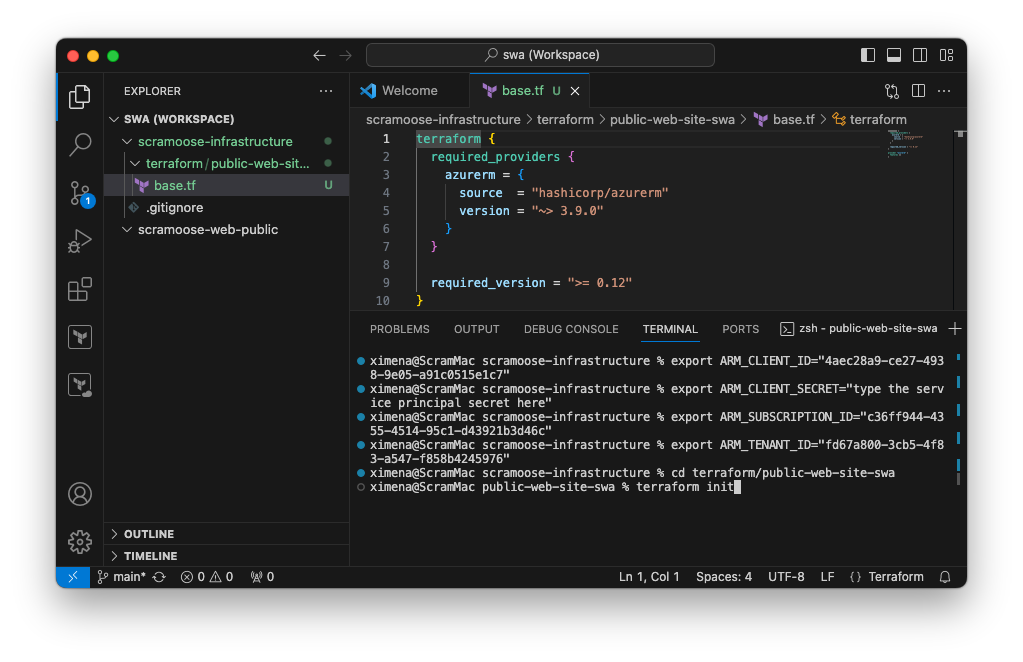
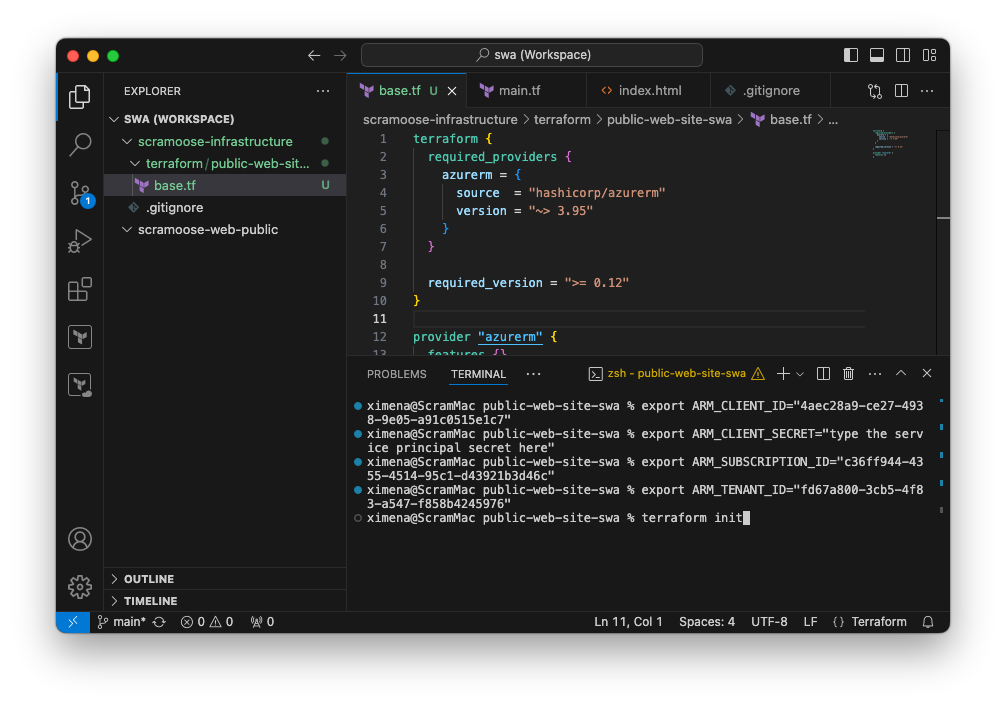
Fix azurerm version

diff --git a/_posts/learn/web/static-web-app/procedures/2024-02-28-swa-terraform.md b/_posts/learn/web/static-web-app/procedures/2024-02-28-swa-terraform.md
@@ -76,7 +76,7 @@ terraform {
   required_providers {
     azurerm = {
       source  = "hashicorp/azurerm"
-      version = "~> 3.9.0"
+      version = "~> 3.95"
     }
   }
 
@@ -102,7 +102,7 @@ Start a terminal in VS Code (**View > Terminal** or `` Ctrl+` ``) and `cd` into 
 terraform init
 ```
 
-{% include figure image_path="/assets/images/posts/vscode-swa-terraform-init.png" caption="Your VS Code instance should look like this so far." alt="VS Code terraform init command" %}
+{% include figure image_path="/assets/images/posts/vscode-swa-terraform-init.png" caption="Your VS Code instance should look like this so far. If you're wondering what all those `export` statements are, you probably skipped step 3 in the [Configure Authentication](#configure-authentication) section." alt="VS Code terraform init command" %}
 
 You'll see something similar to the following output.
 
@@ -110,9 +110,9 @@ You'll see something similar to the following output.
 Initializing the backend...
 
 Initializing provider plugins...
-- Finding hashicorp/azurerm versions matching "~> 3.9.0"...
-- Installing hashicorp/azurerm v3.9.0...
-- Installed hashicorp/azurerm v3.9.0 (signed by HashiCorp)
+- Finding hashicorp/azurerm versions matching "~> 3.95"...
+- Installing hashicorp/azurerm v3.106.1...
+- Installed hashicorp/azurerm v3.106.1 (signed by HashiCorp)
 
 Terraform has created a lock file .terraform.lock.hcl to record the provider
 selections it made above. Include this file in your version control repository
@@ -180,7 +180,7 @@ Terraform will perform the following actions:
   # azurerm_resource_group.public_site will be created
   + resource "azurerm_resource_group" "public_site" {
       + id       = (known after apply)
-      + location = "eastus2"
+      + location = "{{ site.data.web.static_web_app_basic.location }}"
       + name     = "{{ site.data.fake.company_code }}-{{ site.data.web.static_web_app_basic.workload }}-prd-1"
     }
 
@@ -206,7 +206,7 @@ Terraform will perform the following actions:
   # azurerm_resource_group.public_site will be created
   + resource "azurerm_resource_group" "public_site" {
       + id       = (known after apply)
-      + location = "eastus2"
+      + location = "{{ site.data.web.static_web_app_basic.location }}"
       + name     = "{{ site.data.fake.company_code }}-{{ site.data.web.static_web_app_basic.workload }}-prd-1"
     }
 
@@ -244,7 +244,7 @@ You should see your new resource group in the Azure portal within the next coupl
 Now we're going to add the definition for our Static Web App and run the Terraform commands all over again. Add this to your *main.tf* file:
 
 ``` terraform
-resource "azurerm_static_site" "public_site" {
+resource "azurerm_static_web_app" "public_site" {
   name = "{{ site.data.fake.company_code }}-{{ site.data.web.static_web_app_basic.workload }}-prd-1"
   resource_group_name = azurerm_resource_group.public_site.name
   location = azurerm_resource_group.public_site.location
@@ -264,7 +264,7 @@ resource "azurerm_resource_group" "public_site" {
   location = "East US 2"
 }
 
-resource "azurerm_static_site" "public_site" {
+resource "azurerm_static_web_app" "public_site" {
   name = "{{ site.data.fake.company_code }}-{{ site.data.web.static_web_app_basic.workload }}-prd-1"
   resource_group_name = azurerm_resource_group.public_site.name
   location = azurerm_resource_group.public_site.location
@@ -285,16 +285,18 @@ Terraform used the selected providers to generate the following execution plan. 
 
 Terraform will perform the following actions:
 
-  # azurerm_static_site.public_site will be created
-  + resource "azurerm_static_site" "public_site" {
-      + api_key             = (known after apply)
-      + default_host_name   = (known after apply)
-      + id                  = (known after apply)
-      + location            = "eastus2"
-      + name                = "{{ site.data.fake.company_code }}-{{ site.data.web.static_web_app_basic.workload }}-prd-1"
-      + resource_group_name = "{{ site.data.fake.company_code }}-{{ site.data.web.static_web_app_basic.workload }}-prd-1"
-      + sku_size            = "Free"
-      + sku_tier            = "Free"
+  # azurerm_static_web_app.public_site will be created
+  + resource "azurerm_static_web_app" "public_site" {
+      + api_key                            = (sensitive value)
+      + configuration_file_changes_enabled = true
+      + default_host_name                  = (known after apply)
+      + id                                 = (known after apply)
+      + location                           = "{{ site.data.web.static_web_app_basic.location }}"
+      + name                               = "{{ site.data.fake.company_code }}-{{ site.data.web.static_web_app_basic.workload }}-prd-1"
+      + preview_environments_enabled       = true
+      + resource_group_name                = "{{ site.data.fake.company_code }}-{{ site.data.web.static_web_app_basic.workload }}-prd-1"
+      + sku_size                           = "Free"
+      + sku_tier                           = "Free"
     }
 
 Plan: 1 to add, 0 to change, 0 to destroy.
@@ -314,16 +316,18 @@ Terraform used the selected providers to generate the following execution plan. 
 
 Terraform will perform the following actions:
 
-  # azurerm_static_site.public_site will be created
-  + resource "azurerm_static_site" "public_site" {
-      + api_key             = (known after apply)
-      + default_host_name   = (known after apply)
-      + id                  = (known after apply)
-      + location            = "eastus2"
-      + name                = "{{ site.data.fake.company_code }}-{{ site.data.web.static_web_app_basic.workload }}-prd-1"
-      + resource_group_name = "{{ site.data.fake.company_code }}-{{ site.data.web.static_web_app_basic.workload }}-prd-1"
-      + sku_size            = "Free"
-      + sku_tier            = "Free"
+  # azurerm_static_web_app.public_site will be created
+  + resource "azurerm_static_web_app" "public_site" {
+      + api_key                            = (sensitive value)
+      + configuration_file_changes_enabled = true
+      + default_host_name                  = (known after apply)
+      + id                                 = (known after apply)
+      + location                           = "{{ site.data.web.static_web_app_basic.location }}"
+      + name                               = "{{ site.data.fake.company_code }}-{{ site.data.web.static_web_app_basic.workload }}-prd-1"
+      + preview_environments_enabled       = true
+      + resource_group_name                = "{{ site.data.fake.company_code }}-{{ site.data.web.static_web_app_basic.workload }}-prd-1"
+      + sku_size                           = "Free"
+      + sku_tier                           = "Free"
     }
 
 Plan: 1 to add, 0 to change, 0 to destroy.
@@ -334,13 +338,13 @@ Do you want to perform these actions?
 
   Enter a value: yes
 
-azurerm_static_site.public_site: Creating...
-azurerm_static_site.public_site: Creation complete after 2s [id=/subscriptions/{{ site.data.fake.subscription_guid }}/resourceGroups/{{ site.data.fake.company_code }}-{{ site.data.web.static_web_app_basic.workload }}-prd-1/providers/Microsoft.Web/staticSites/{{ site.data.fake.company_code }}-{{ site.data.web.static_web_app_basic.workload }}-prd-1]
+azurerm_static_web_app.public_site: Creating...
+azurerm_static_web_app.public_site: Creation complete after 2s [id=/subscriptions/{{ site.data.fake.subscription_guid }}/resourceGroups/{{ site.data.fake.company_code }}-{{ site.data.web.static_web_app_basic.workload }}-prd-1/providers/Microsoft.Web/staticSites/{{ site.data.fake.company_code }}-{{ site.data.web.static_web_app_basic.workload }}-prd-1]
 
 Apply complete! Resources: 1 added, 0 changed, 0 destroyed.
 {% endhighlight  %}
 
-Draw your attention to the penultimate line: `azurerm_static_site.public_site: Creation complete after 2s`. Completed after two seconds! That's way less time than it would take to type and click this all in the portal. Arguably it took more time to create the Terraform code, but consider if you had to deploy this another ten times. Now that you have the Terraform code, you only have to change the resource group name and/or the Static Web App resource name.
+Draw your attention to the penultimate line: `azurerm_static_web_app.public_site: Creation complete after 2s`. Completed after two seconds! That's way less time than it would take to type and click this all in the portal. Arguably it took more time to create the Terraform code, but consider if you had to deploy this another ten times. Now that you have the Terraform code, you only have to change the resource group name and/or the Static Web App resource name.
 {: .notice--info}
 
 {% include figure image_path="/assets/images/posts/portal-resource-group-swa-resource.png" caption="Click on your resource group to see the new Static Web App resource you created." alt="Static Web App resource inside resource group" %}
@@ -380,13 +384,13 @@ Terraform can [output values](https://developer.hashicorp.com/terraform/language
 
 ``` terraform
 output "static_site_hostname" {
-  value = azurerm_static_site.public_site.default_host_name
+  value = azurerm_static_web_app.public_site.default_host_name
 }
 ```
 
 {% highlight output %}
 azurerm_resource_group.public_site: Refreshing state... [id=/subscriptions/{{ site.data.fake.subscription_guid }}/resourceGroups/{{ site.data.fake.company_code }}-{{ site.data.web.static_web_app_basic.workload }}-prd-1]
-azurerm_static_site.public_site: Refreshing state... [id=/subscriptions/{{ site.data.fake.subscription_guid }}/resourceGroups/{{ site.data.fake.company_code }}-{{ site.data.web.static_web_app_basic.workload }}-prd-1/providers/Microsoft.Web/staticSites/{{ site.data.fake.company_code }}-{{ site.data.web.static_web_app_basic.workload }}-prd-1]
+azurerm_static_web_app.public_site: Refreshing state... [id=/subscriptions/{{ site.data.fake.subscription_guid }}/resourceGroups/{{ site.data.fake.company_code }}-{{ site.data.web.static_web_app_basic.workload }}-prd-1/providers/Microsoft.Web/staticSites/{{ site.data.fake.company_code }}-{{ site.data.web.static_web_app_basic.workload }}-prd-1]
 
 Changes to Outputs:
   + static_site_hostname = "{{ site.data.web.static_web_app_basic.swa_url }}"

diff --git a/_posts/thoughts/2024-03-13-static-web-app-terraform-deprecation.md b/_posts/thoughts/2024-03-13-static-web-app-terraform-deprecation.md
@@ -16,7 +16,27 @@ This is pretty easy, but there's a little wrinkle with updating the **azurerm** 
 
 ### I Can Admit My Mistakes
 
-First, I screwed up a bit. On line 5 of the [*base.tf*]({% post_url /learn/web/static-web-app/procedures/2024-02-28-swa-terraform %}#{{ 'Terraform Settings' | slugify }}) file, I said to specify the provider version as `~> 3.9.0`. That is a mistake. At the time that I published my original post, the newest release of the azurerm Terraform provider was [3.93.0](https://registry.terraform.io/providers/hashicorp/azurerm/3.93.0/docs). My stupid brain was thinking "we need at least version 3.90," but the code I used says "we need the most recent version of 3.9.x but less than 3.10."
+First, I screwed up a bit. On line 5 of the [*base.tf*]({% post_url /learn/web/static-web-app/procedures/2024-02-28-swa-terraform %}#{{ 'Terraform Settings' | slugify }}) file, I said to specify the provider version as `~> 3.9.0`. That is a mistake.
+
+{% highlight terraform linenos %}
+# Original INCORRECT azurerm provider version.
+terraform {
+  required_providers {
+    azurerm = {
+      source  = "hashicorp/azurerm"
+      version = "~> 3.9.0"
+    }
+  }
+
+  required_version = ">= 0.12"
+}
+
+provider "azurerm" {
+  features {}
+}
+{% endhighlight %}
+
+At the time that I published my original post, the newest release of the azurerm Terraform provider was [3.93.0](https://registry.terraform.io/providers/hashicorp/azurerm/3.93.0/docs). My stupid brain was thinking "we need at least version 3.90," but the code I used says "we need the most recent version of 3.9.x but less than 3.10."
 
 This is stupid for two reasons. One is that I messed up the syntax like I mentioned (let's get over that, okay??). Secondly is that there is nothing special about version 3.90 that I was interested in, so I honestly don't know what I was thinking. Either way, let's talk about how to fix that.
 
